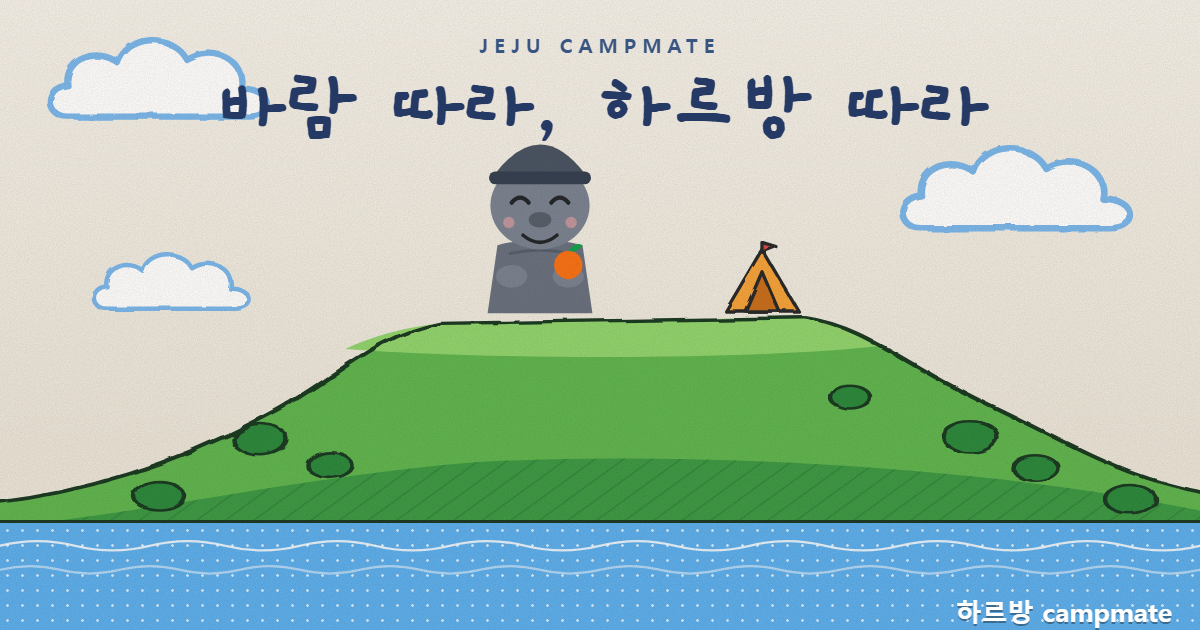
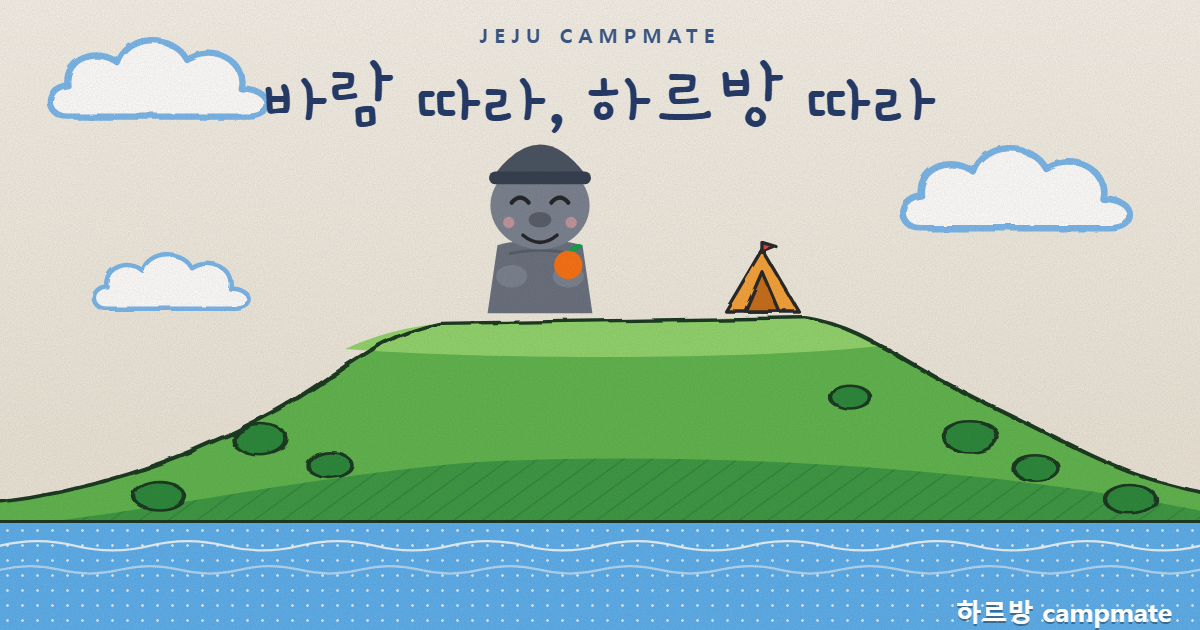
Localized camp names (en/zh/ja); hero font Gamja Flower, compact PC hero, regenerated OG image

Changed region(s): [[0.185, 0.0905, 0.8325, 0.2413], [0.4008, 0.0302, 0.6167, 0.0905]]

diff --git a/server/data/campNames.js b/server/data/campNames.js
@@ -1,0 +1,178 @@
+// 외국어 화면에서 쓰는 캠핑장 영문 이름 (고캠핑 contentId → 영문 이름)
+// 공식 영문 표기가 아니라 일반 낱말은 번역하고 고유명사는 로마자로 옮긴 것입니다(Claude 가 임의로 정함).
+// 고캠핑에 새 캠핑장이 생겨 여기에 없으면 아래 autoName() 이 낱말 사전 + 로마자로 만들어 줍니다.
+import romanizePkg from '@romanize/korean';
+const { romanize } = romanizePkg;
+
+export const CAMP_NAMES_EN = {
+  100311: 'Camping Story',
+  102373: 'Coco Camp Jeju',
+  102300: 'Gimnyeong Beach Campground',
+  102358: 'Hospitality International Co., Ltd.',
+  102356: 'Making Memories Camp',
+  102347: 'Bonggae Aureum Campground',
+  676: 'Dain Caravan',
+  8170: 'Seutabil',
+  102120: 'KARA MONG',
+  101857: 'Girin Campland',
+  102237: 'BBQ Factory Seogwipo',
+  102230: 'Bongareum Campsite',
+  102165: 'Sun-Moon-Star Small Camping',
+  102162: 'Jeulgimeong Campsite',
+  102127: 'Greenji Glamping (Aewol Sanggwi-ri Tourist Farm)',
+  102091: 'Jeju Olle Camping 2',
+  102101: 'camp.ion',
+  101370: 'Donnaeko Campground',
+  101913: 'Hawon Village Association [Neoreundo Campground]',
+  344: 'Gyorae Natural Recreation Forest Campground',
+  101805: 'Dopeuang Camping',
+  7895: 'Bulgeunoreum Natural Recreation Forest Campground',
+  101571: 'Egatot Cabin',
+  6998: 'Bicheollin',
+  343: 'Gyorae Eco Experience Park',
+  101822: 'Solo Camp',
+  101682: 'Japari Camping',
+  1606: 'Seogeondo Caravan',
+  100649: 'I-Olle in Forest Camping',
+  2729: 'Jeju Pine Beach Caravan',
+  100770: 'Taebongwat',
+  100777: 'Seonheul-ri Campsite',
+  100780: 'Jeju Olle Camping',
+  100915: 'Sunset Coast',
+  100960: 'Gwangimeol Stay Pool Villa Glamping',
+  100979: 'Yak Village Jeju',
+  18: 'Jeju Natural Man Glamping',
+  101504: 'Cottage Camping',
+  3477: 'Oreum House',
+  101443: 'Ylang Ylang Pet Camping in Jeju',
+  101414: 'Reubeongsseulrebeu',
+  100326: 'K-Glamping Aewol Branch',
+  100422: 'Nokgomoe Campsite Tourist Farm',
+  100333: "Hong's Land Glamping",
+  100713: 'East Mong Blue Caravan Camping',
+  100378: 'Jongdal BBQ Camping',
+  869: 'Donggwang Green Experience Resort Village',
+};
+
+// 중국어·일본어 이름: 일반 낱말은 번역하고, 한자 이름이 확실한 지명(김녕·교래·선흘 등)은 한자로,
+// 뜻을 모르는 상호는 로마자(중국어) 또는 가타카나(일본어)로 옮겼습니다. Claude 가 임의로 정한 이름이라 공식 표기가 아닙니다.
+export const CAMP_NAMES_ZH = {
+  100311: '露营故事',
+  102373: '济州可可营地',
+  102300: '金宁海水浴场露营地',
+  102358: 'Hospitality International有限公司',
+  102356: '创造回忆',
+  102347: '奉盖Aureum露营地',
+  676: 'Dain房车',
+  8170: 'Seutabil',
+  102120: 'KARA MONG',
+  101857: 'Girin Campland',
+  102237: '烧烤工厂 西归浦店',
+  102230: 'Bongareum露营地',
+  102165: '日月星小型露营',
+  102162: 'Jeulgimeong露营地',
+  102127: 'Greenji豪华露营（涯月上贵里观光农园）',
+  102091: '济州偶来露营2',
+  102101: 'camp.ion',
+  101370: 'Donnaeko露营地',
+  101913: '下院村会［Neoreundo露营地］',
+  344: '桥来自然休养林露营地',
+  101805: 'Dopeuang露营',
+  7895: '红岳自然休养林森林露营地',
+  101571: 'Egatot小木屋',
+  6998: 'Bicheollin',
+  343: '桥来生态体验场',
+  101822: '独自露营',
+  101682: 'Japari露营',
+  1606: 'Seogeondo房车',
+  100649: 'I-Olle in Forest露营',
+  2729: '济州Pine Beach房车',
+  100770: 'Taebongwat',
+  100777: '善屹里露营地',
+  100780: '济州偶来露营',
+  100915: '日落海岸',
+  100960: 'Gwangimeol Stay泳池别墅豪华露营',
+  100979: '济州牦牛村',
+  18: '济州自然人豪华露营',
+  101504: 'Cottage露营',
+  3477: '岳之家',
+  101443: '依兰依兰宠物露营 in济州',
+  101414: 'Reubeongsseulrebeu',
+  100326: 'K-豪华露营 涯月店',
+  100422: 'Nokgomoe露营地 观光农园',
+  100333: "Hong's Land豪华露营",
+  100713: 'East Mong Blue房车露营',
+  100378: '终达烧烤露营',
+  869: '东广绿色体验度假村',
+};
+
+export const CAMP_NAMES_JA = {
+  100311: 'キャンピングストーリー',
+  102373: 'ココキャンプ済州',
+  102300: 'キムニョン海水浴場キャンプ場',
+  102358: 'ホスピタリティ・インターナショナル有限会社',
+  102356: '思い出づくり',
+  102347: 'ポンゲ・アウルム キャンプ場',
+  676: 'ダイン キャラバン',
+  8170: 'スタビル',
+  102120: 'KARA MONG',
+  101857: 'キリン キャンプランド',
+  102237: 'バーベキューファクトリー 西帰浦店',
+  102230: 'ポンアルム キャンプ場',
+  102165: '日月星のちいさなキャンプ',
+  102162: 'チュルギモン キャンプ場',
+  102127: 'グリーンジ グランピング（涯月 上貴里観光農園）',
+  102091: '済州オルレキャンプ2',
+  102101: 'camp.ion',
+  101370: 'トンネコ キャンプ場',
+  101913: '下院マウル会［ノルンド キャンプ場］',
+  344: '橋来自然休養林キャンプ場',
+  101805: 'ドプアン キャンピング',
+  7895: 'ブルグンオルム自然休養林 森のキャンプ場',
+  101571: 'エガトッ キャビン',
+  6998: 'ビチェオルリン',
+  343: '橋来エコ体験場',
+  101822: 'ひとりキャンプ',
+  101682: 'チャパリ キャンピング',
+  1606: 'ソゴンド キャラバン',
+  100649: 'アイオルレ・イン・フォレスト キャンピング',
+  2729: '済州パインビーチ キャラバン',
+  100770: 'テボンワッ',
+  100777: '善屹里キャンプ場',
+  100780: '済州オルレキャンプ',
+  100915: 'サンセットコースト',
+  100960: 'クァンイモル ステイ プールヴィラ グランピング',
+  100979: '済州ヤク村',
+  18: '済州自然人グランピング',
+  101504: 'コテージキャンピング',
+  3477: 'オルムの家',
+  101443: 'イランイラン ペットキャンプ in 済州',
+  101414: 'ルボンスルレブ',
+  100326: 'K-グランピング 涯月店',
+  100422: 'ノッコメ キャンプ場 観光農園',
+  100333: 'ホンズランド グランピング',
+  100713: 'イースト・モン・ブルー キャラバンキャンピング',
+  100378: 'チョンダル バーベキューキャンピング',
+  869: '東広グリーン体験リゾート村',
+};
+
+// 자주 나오는 낱말 → 영어 (긴 낱말부터 바꿈)
+const WORDS = [
+  ['자연휴양림', 'Natural Recreation Forest'], ['생태체험장', 'Eco Experience Park'], ['해수욕장', 'Beach'], ['관광농원', 'Tourist Farm'],
+  ['야영장', 'Campground'], ['캠핑장', 'Campsite'], ['글램핑', 'Glamping'], ['카라반', 'Caravan'], ['캠핑', 'Camping'], ['캠프', 'Camp'],
+  ['풀빌라', 'Pool Villa'], ['마을회', 'Village Association'], ['유한회사', 'Co., Ltd.'], ['서귀포점', 'Seogwipo Branch'], ['애월점', 'Aewol Branch'],
+  ['펜션', 'Pension'], ['리조트', 'Resort'], ['숲속', 'Forest'], ['오름', 'Oreum'], ['제주', 'Jeju'],
+];
+const HANGUL = /[가-힣]+/g;
+
+function autoName(ko = '') {
+  let s = ko;
+  for (const [k, v] of WORDS) s = s.split(k).join(` ${v} `);
+  s = s.replace(HANGUL, (m) => ` ${m.split('').map((c) => romanize(c)).join('').replace(/^./, (x) => x.toUpperCase())} `);
+  return s.replace(/\s+/g, ' ').replace(/\s+([)\]],.])/g, '$1').replace(/([([])\s+/g, '$1').trim();
+}
+
+export const campNameEn = (c) => CAMP_NAMES_EN[c.id] ?? autoName(c.name);
+
+// 선택한 언어의 이름: 중국어·일본어 사전에 없으면(새 캠핑장) 영문 이름으로
+export const campName = (c, lang) => (lang === 'zh' ? CAMP_NAMES_ZH[c.id] : lang === 'ja' ? CAMP_NAMES_JA[c.id] : undefined) ?? campNameEn(c);

diff --git a/src/styles/theme.css b/src/styles/theme.css
@@ -219,21 +219,23 @@ p, .card-text, .text-muted { text-wrap: pretty; }
 }
 
 /* ── 홈 히어로: 크레용 그림 장면 (초록 한라산 + 산 위의 하르방·텐트) ──────── */
-:root { --font-hand: "Gaegu", "Jua", system-ui, sans-serif; }
+:root { --font-hand: "Gamja Flower", "Jua", system-ui, sans-serif; }
 .hero-card { overflow: hidden; }
 .hero-scene { position: relative; aspect-ratio: 4 / 5; max-height: 620px; width: 100%; overflow: hidden; background: #f3efe6; }
-/* PC: 낮고 넓게 — 제목은 왼쪽, 산·하르방은 가운데에서 오른쪽 */
-@media (min-width: 768px) {
-  .hero-scene { aspect-ratio: auto; max-height: none; height: clamp(260px, 25vw, 330px); }
-  .hero-title { left: 4%; right: auto; width: 42%; padding: 0; top: 14%; text-align: left; }
-  .hero-title h1 { font-size: clamp(2rem, 3.6vw, 3.1rem); }
-  .hero-stage { left: 53%; width: clamp(90px, 9vw, 120px); }
-  .hero-tent { left: 63%; width: clamp(38px, 4.4vw, 58px); }
+/* 넓은 화면(576px~): 낮고 넓게 — 제목은 왼쪽(크게), 산·하르방은 가운데에서 오른쪽 */
+/* (아래 기본 규칙보다 뒤에 있어도 이기도록 .hero-scene 를 앞에 붙임) */
+@media (min-width: 576px) {
+  .hero-scene { aspect-ratio: auto; max-height: none; height: clamp(210px, 20vw, 262px); }
+  .hero-scene .hero-title { left: 4%; right: auto; width: 44%; padding: 0; top: 8%; text-align: left; }
+  .hero-scene .hero-title h1 { font-size: clamp(2.3rem, 4.4vw, 3.6rem); }
+  .hero-scene .hero-kicker { font-size: .78rem; }
+  .hero-scene .hero-stage { left: 54%; width: clamp(64px, 6.2vw, 88px); }
+  .hero-scene .hero-tent { left: 63.5%; width: clamp(30px, 3.6vw, 48px); }
 }
 .hero-sky { position: absolute; inset: 0; background: linear-gradient(#f6f2ea 0%, #ece6da 70%); }
 .hero-paper { position: absolute; inset: 0; pointer-events: none; opacity: .5; mix-blend-mode: multiply; z-index: 6; }
 
-.hero-cloud { position: absolute; animation: hero-float ease-in-out infinite alternate; }
+.hero-cloud { position: absolute; max-width: 190px; animation: hero-float ease-in-out infinite alternate; }
 @keyframes hero-float { from { transform: translate(0, 0); } to { transform: translate(9vw, -6px); } }
 
 /* 산: 아래 10% 에서 시작해 높이 54% → 산마루(평평한 윗면)는 위에서 약 50% 지점 */
@@ -263,13 +265,13 @@ p, .card-text, .text-muted { text-wrap: pretty; }
 
 .hero-title { position: absolute; top: 5%; left: 0; right: 0; padding: 0 7%; text-align: center; z-index: 5; animation: hero-title-in 1s ease-out .4s both; }
 .hero-kicker { font-size: .72rem; letter-spacing: .28em; font-weight: 800; color: #3b5a8a; }
-.hero-title h1 { font-family: var(--font-hand); font-weight: 700; font-size: clamp(1.8rem, 6.6vw, 3rem); line-height: 1.1; color: #263c6b; margin: .15rem 0 0; text-wrap: balance; }
+.hero-title h1 { font-family: var(--font-hand); font-weight: 700; font-size: clamp(2.15rem, 8.4vw, 3rem); line-height: 1.08; color: #263c6b; margin: .15rem 0 0; text-wrap: balance; }
 @keyframes hero-title-in { from { opacity: 0; transform: translateY(-12px); } to { opacity: 1; transform: none; } }
 
 /* 말풍선: 하르방 오른쪽 위 하늘 */
 .bubble.hero-bubble { position: absolute; left: 55%; right: 4%; top: 27%; z-index: 5; font-size: .85rem; text-wrap: balance; animation: hero-title-in .8s ease-out 2s both; }
 .bubble.hero-bubble::before { display: block; left: -9px; top: auto; bottom: 10px; }
-@media (min-width: 768px) { .bubble.hero-bubble { left: 59.5%; right: auto; max-width: 270px; font-size: .92rem; top: 14%; } }
+@media (min-width: 576px) { .bubble.hero-bubble { left: 61%; right: auto; max-width: 250px; font-size: .88rem; top: 12%; } }
 
 .hero-caption { background: var(--card); border-top: 2px solid #000; }
 

diff --git a/server/camps.js b/server/camps.js
@@ -2,6 +2,7 @@
 // - DATA_GO_KR_KEY 가 있으면 한국관광공사 고캠핑(GoCamping) API 에서 제주 야영장을 가져옵니다.
 // - 키가 없거나 응답이 비면 샘플(가상) 캠핑장으로 대체합니다.
 import { localizeAddr } from './addr.js';
+import { campName, campNameEn } from './data/campNames.js';
 import { SAMPLE_CAMPS } from './data/camps.js';
 import { STORIES, pick } from './data/stories.js';
 
@@ -88,13 +89,14 @@ function storiesNear(c, lang, n) {
 }
 
 // 주소를 선택한 언어로 (검색은 한국어 원문으로 끝난 뒤에 바꿉니다). addrKo 는 지도·택시용 한국어 원문
-const localizeCamp = (c, lang) => (lang === 'ko' ? c : { ...c, addr: localizeAddr(c.addr, lang), addrKo: c.addr });
+// 이름도 선택한 언어로(영어 · 중국어 · 일본어 각각의 이름). nameKo 는 원래 한국어 이름
+const localizeCamp = (c, lang) => (lang === 'ko' ? c : { ...c, name: campName(c, lang), nameKo: c.name, addr: localizeAddr(c.addr, lang), addrKo: c.addr });
 
 export async function listCamps({ lang = 'ko', keyword = '', type = '', region = '' } = {}) {
   const kw = keyword.trim().toLowerCase();
   return (await allCamps(lang))
     .filter((c) => (!type || c.types.includes(type)) && (!region || c.region === region)
-      && (!kw || `${c.name} ${c.intro ?? ''} ${c.addr ?? ''}`.toLowerCase().includes(kw)))
+      && (!kw || `${c.name} ${campNameEn(c)} ${campName(c, lang)} ${c.intro ?? ''} ${c.addr ?? ''}`.toLowerCase().includes(kw)))   // 한국어·영문 이름 모두로 검색
     .map((c) => ({ ...localizeCamp(c, lang), stories: storiesNear(c, lang, 2).map(({ id, name, km }) => ({ id, name, km })) }));
 }
 

diff --git a/src/pages/Home.jsx b/src/pages/Home.jsx
@@ -43,7 +43,7 @@ export default function Home() {
       {/* 홈 맨 위: 크레용 그림 장면(한라산·구름·바다에서 솟는 하르방) + 설명·버튼 */}
       <section className="card shadow-sm mb-4 hero-card">
         <HeroScene mood={mood} say={say} title={t('heroTitle')} />
-        <div className="hero-caption d-md-flex align-items-center justify-content-between gap-3 text-center text-md-start px-3 py-3 px-md-4">
+        <div className="hero-caption d-md-flex align-items-center justify-content-between gap-3 text-center text-md-start px-3 py-2 px-md-4">
           <p className="text-muted mb-3 mb-md-0">{t('heroSub')}</p>
           <div className="d-flex flex-wrap justify-content-center align-items-center gap-3 flex-shrink-0">
             <Link to="/camps" className="btn btn-primary btn-lg">{t('start')} <i className="bi bi-arrow-right" /></Link>

diff --git a/index.html b/index.html
@@ -6,7 +6,7 @@
     <meta name="viewport" content="width=device-width, initial-scale=1.0" />
     <link rel="preconnect" href="https://fonts.googleapis.com" />
     <link rel="preconnect" href="https://fonts.gstatic.com" crossorigin />
-    <link rel="stylesheet" href="https://fonts.googleapis.com/css2?family=Jua&family=Gaegu:wght@400;700&display=swap" />
+    <link rel="stylesheet" href="https://fonts.googleapis.com/css2?family=Jua&family=Gamja+Flower&display=swap" />
     <link rel="stylesheet" href="https://cdn.jsdelivr.net/gh/orioncactus/pretendard@v1.3.9/dist/web/static/pretendard.min.css" />
     <title>하르방 campmate</title>
     <meta name="description" content="오늘 제주 바람에 맞는 캠핑장을 고르고, 근처 오름·신화 이야기에 도장을 모아요." />
